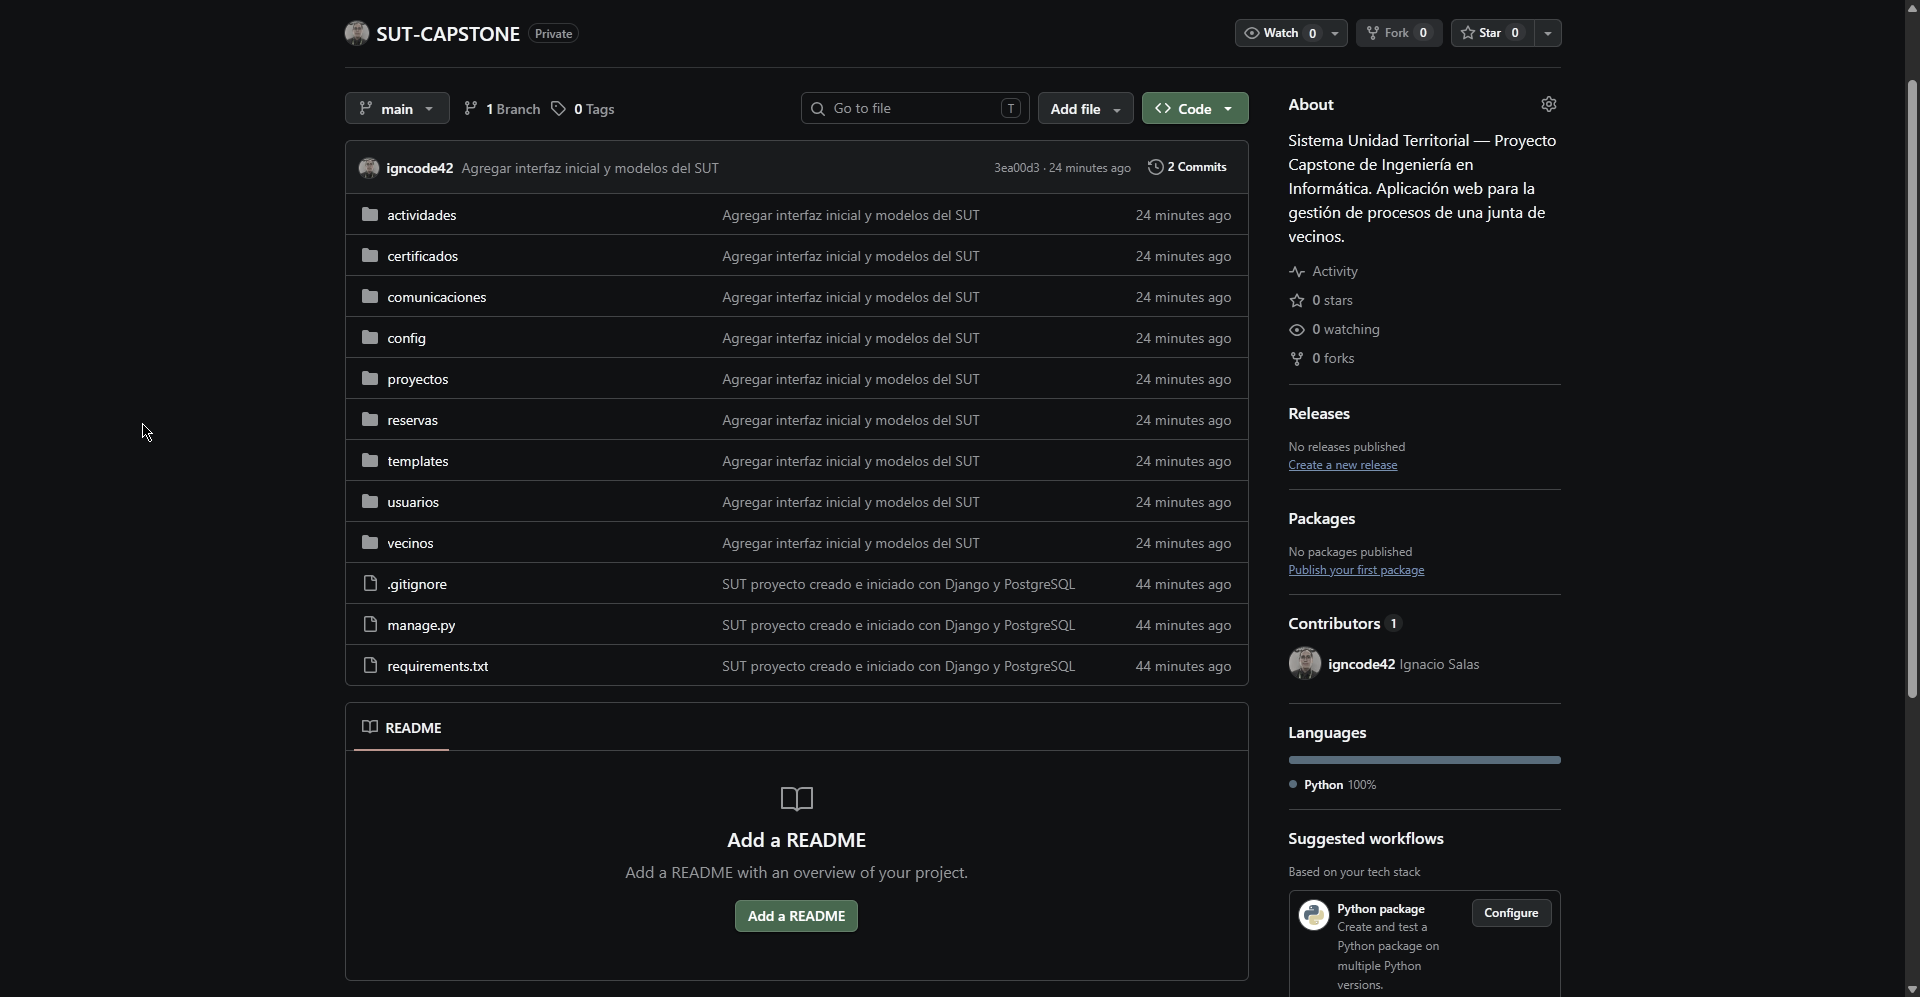
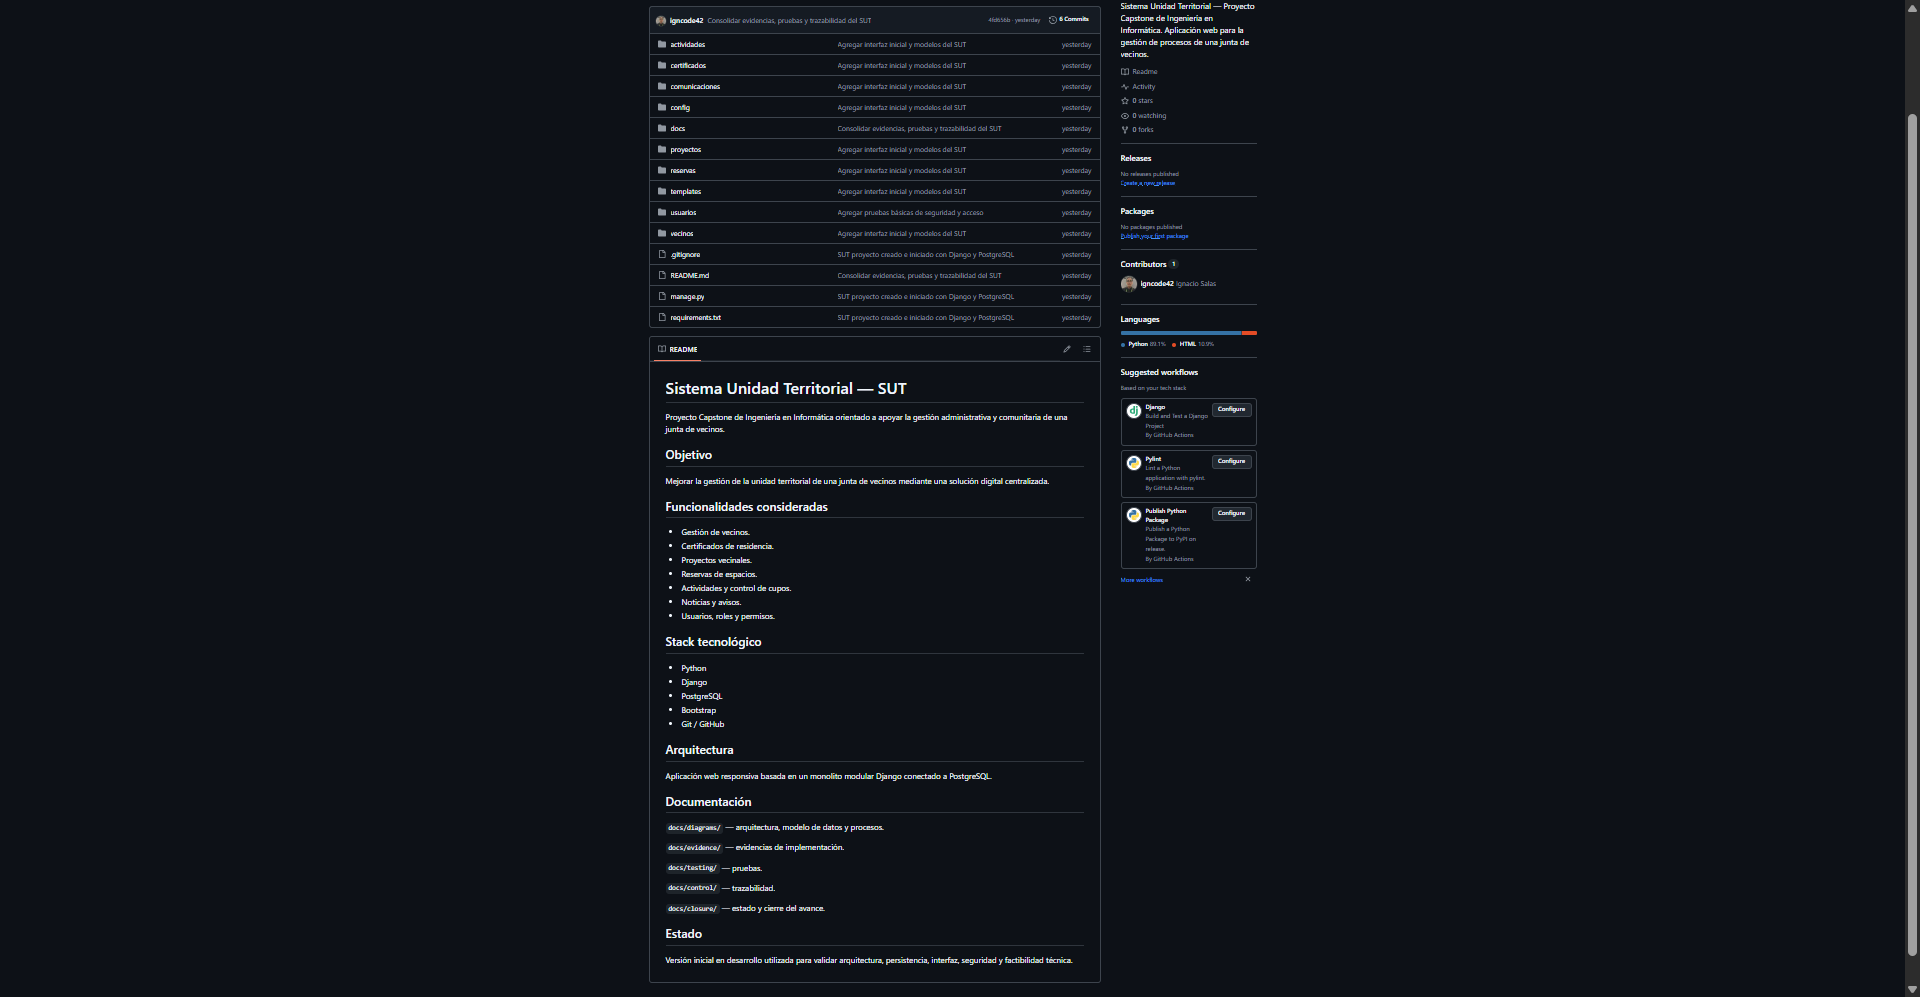
Limpiar y consolidar la entrega SUT v0.1

diff --git a/config/settings.py b/config/settings.py
@@ -31,9 +31,6 @@ DEBUG = os.getenv("DJANGO_DEBUG", "False").lower() == "true"
 ALLOWED_HOSTS = ["127.0.0.1", "localhost"]
 # SECURITY WARNING: don't run with debug turned on in production!
 
-ALLOWED_HOSTS = []
-
-
 # Application definition
 
 INSTALLED_APPS = [
@@ -96,7 +93,6 @@ DATABASES = {
         "PORT": os.getenv("DB_PORT", "5432"),
     }
 }
-
 
 # Password validation
 # https://docs.djangoproject.com/en/6.1/ref/settings/#auth-password-validators

diff --git a/docs/control/trazabilidad.md b/docs/control/trazabilidad.md
@@ -1,13 +1,16 @@
 # Matriz de trazabilidad — SUT
 
-| Necesidad / regla | Requisito | Implementación / diseño | Evidencia |
-|---|---|---|---|
-| Gestionar vecinos | RF-01 | Modelo Vecino | PostgreSQL + Admin |
-| Solicitar certificados | RF-03 / RF-04 | SolicitudCertificado / Certificado | ERD + Admin + BD |
-| Sólo miembros postulan proyectos | RN-01 / RF-05 | ProyectoVecinal + roles | Proceso proyecto + modelo |
-| Directorio aprueba o rechaza | RN-02 / RF-06 | Estado ProyectoVecinal | Diagrama de proceso |
-| Reservas mediante calendario | RN-04 / RF-09 | Espacio / Reserva | ERD + proceso reserva |
-| Inscripción depende de cupos | RN-05 / RF-11 | Actividad / InscripcionActividad | ERD + proceso actividad |
-| Publicar noticias y avisos | RF-13 | Noticia / Aviso | Admin + BD |
-| Proteger acceso administrativo | RS-01 | Django Authentication | Test + panel admin |
-| Proteger secretos | RS-05 | .env + .gitignore | Git |
+La columna **Estado** distingue el diseño documental de la base implementada y de los flujos aún pendientes. Los diagramas de procesos representan el diseño del sistema; no constituyen evidencia de ejecución funcional.
+
+| Necesidad / regla | Requisito | Implementación / diseño | Estado | Evidencia |
+|---|---|---|---|---|
+| Gestionar vecinos | RF-01 | Modelo `Vecino`, migración, tabla y registro administrativo | Implementado parcialmente: base de datos y administración; flujo de usuario pendiente | `vecinos/`; `docs/diagrams/02-modelo-datos-sut.*`; `docs/evidence/02-panel-administracion.png`; `docs/evidence/03-tablas-postgresql.png` |
+| Solicitar certificados | RF-03 / RF-04 | Modelos `SolicitudCertificado` y `Certificado`, migraciones y administración | Implementado parcialmente: estructura de datos; solicitud y emisión funcional pendientes | `certificados/`; `docs/diagrams/02-modelo-datos-sut.*`; `docs/evidence/02-panel-administracion.png` |
+| Sólo miembros postulan proyectos | RN-01 / RF-05 | Regla y proceso definidos; modelo `ProyectoVecinal` disponible | Diseñado: la restricción no está verificada en un flujo funcional | `docs/diagrams/03-proceso-proyecto-vecinal.*`; `proyectos/` |
+| Directorio aprueba o rechaza | RN-02 / RF-06 | Estados del proyecto y proceso de aprobación definidos | Diseñado: permisos y aprobación funcional por rol pendientes | `docs/diagrams/03-proceso-proyecto-vecinal.*`; `proyectos/` |
+| Reservas mediante calendario | RN-04 / RF-09 | Modelos `Espacio` y `Reserva`, migraciones y administración | Implementado parcialmente: persistencia y administración; calendario y validación de disponibilidad pendientes | `reservas/`; `docs/diagrams/04-proceso-reserva-espacio.*`; `docs/evidence/05-listado-espacios-admin.png`; `docs/evidence/06-formulario-espacio-admin.png` |
+| Inscripción depende de cupos | RN-05 / RF-11 | Modelos `Actividad` e `InscripcionActividad`; proceso de cupos diseñado | Implementado parcialmente: estructura de datos; control funcional de cupos pendiente | `actividades/`; `docs/diagrams/05-proceso-actividad-cupos.*` |
+| Publicar noticias y avisos | RF-13 | Modelos `Noticia` y `Aviso`, migraciones y administración | Implementado parcialmente: gestión administrativa; publicación para usuarios finales pendiente | `comunicaciones/`; `docs/evidence/02-panel-administracion.png`; `docs/evidence/03-tablas-postgresql.png` |
+| Proteger acceso administrativo | RS-01 | Autenticación integrada de Django para el panel administrativo | Implementado y verificado | `docs/testing/pruebas.md`; `docs/evidence/02-panel-administracion.png`; `docs/evidence/07-ejecucion-pruebas.png` |
+| Proteger secretos | RS-05 | Configuración mediante variables de entorno y exclusiones del repositorio | Implementado y documentado | `.gitignore`; `config/settings.py`; `docs/evidence/08-proteccion-secretos-gitignore.png`; `docs/evidence/09-configuracion-django-entorno.png`; `docs/evidence/10-estructura-env-sin-secretos.png` |
+| Notificar por correo o WhatsApp | Propuesta APT | Componente considerado en el diseño de arquitectura | Pendiente: no existe integración funcional en la versión v0.1 | `docs/diagrams/01-arquitectura-sut.*` |

diff --git a/docs/closure/cierre-v01.md b/docs/closure/cierre-v01.md
@@ -2,38 +2,45 @@
 
 ## Estado del proyecto
 
-Se ha completado la definición inicial y se dispone de una base técnica funcional del Sistema Unidad Territorial.
+SUT v0.1 constituye una base técnica y documental verificable para continuar el desarrollo incremental. Esta versión no se presenta como un producto terminado ni como una implementación completa de todos los procesos definidos.
 
-## Completado
+## Diseñado / documentado
 
-- Fundamentación y problemática.
-- Solución y objetivos.
-- Alcance y factibilidad.
-- Procesos principales.
-- Requisitos funcionales y no funcionales.
-- Historias de usuario.
-- Arquitectura preliminar.
-- Modelo de datos.
-- Stack tecnológico.
-- Aplicación Django inicial.
-- Base de datos PostgreSQL.
-- Interfaz web inicial.
-- Panel administrativo.
-- Controles básicos de seguridad.
-- Pruebas iniciales.
-- Repositorio Git/GitHub.
-- Evidencias técnicas.
+- Fundamentación, problemática, solución, objetivos, alcance y factibilidad.
+- Procesos principales de proyectos vecinales, reservas y actividades con cupos.
+- Requisitos funcionales y no funcionales, reglas de negocio e historias de usuario.
+- Product Backlog y criterios de priorización.
+- Arquitectura del sistema, incluido el componente de correo como diseño.
+- Modelo conceptual de datos.
+- Stack tecnológico y organización modular de la solución.
+- Matriz de trazabilidad, documentación de pruebas y cierre del avance.
 
-## Pendiente / siguientes iteraciones
+Los diagramas de procesos expresan el comportamiento esperado del sistema y no acreditan flujos completos implementados.
 
-- Implementar flujos funcionales completos.
-- Completar permisos específicos por rol.
-- Ampliar pruebas automatizadas.
-- Completar Carta Gantt con fechas oficiales.
-- Refinar interfaz de usuario.
-- Validar reglas de negocio pendientes.
-- Completar documentación y presentación final.
+## Implementado / verificado
 
-## Conclusión
+- Proyecto Django inicial con las siete aplicaciones definidas: `usuarios`, `vecinos`, `certificados`, `proyectos`, `reservas`, `actividades` y `comunicaciones`.
+- Modelos Django, migraciones y tablas asociadas en PostgreSQL.
+- Usuario PostgreSQL dedicado y configuración de conexión mediante variables de entorno.
+- Interfaz web inicial con Django Templates y Bootstrap.
+- Registro de modelos en Django Admin y autenticación administrativa.
+- Exclusión de `.env`, entornos virtuales, cachés y archivos compilados mediante `.gitignore`.
+- Dos pruebas automatizadas iniciales ejecutadas y documentadas.
+- Evidencias técnicas organizadas y numeradas para la versión v0.1.
 
-El avance permite demostrar la factibilidad técnica de la solución y establece una base funcional y documentada para continuar el desarrollo incremental del proyecto.
+## Pendiente
+
+- Completar los flujos funcionales para usuarios finales.
+- Aplicar permisos específicos y validaciones finas según rol.
+- Implementar notificaciones funcionales por correo y WhatsApp.
+- Implementar calendario, disponibilidad y validaciones de reservas.
+- Implementar el control funcional de cupos e inscripciones.
+- Completar la solicitud y emisión funcional de certificados.
+- Completar la publicación de comunicaciones para usuarios finales.
+- Incorporar reglas de negocio adicionales y ampliar la cobertura de pruebas.
+- Refinar la interfaz de usuario.
+- Completar la Carta Gantt con fechas oficiales y la presentación final.
+
+## Conclusión del avance
+
+La versión v0.1 demuestra la factibilidad técnica de la arquitectura, la persistencia en PostgreSQL, la administración inicial, la configuración segura y dos comportamientos básicos verificados. El desarrollo pendiente corresponde principalmente a flujos de usuario, reglas y permisos; por ello, la entrega debe defenderse como una base coherente y documentada para las siguientes iteraciones.

diff --git a/README.md b/README.md
@@ -4,42 +4,62 @@ Proyecto Capstone de Ingeniería en Informática orientado a apoyar la gestión 
 
 ## Objetivo
 
-Mejorar la gestión de la unidad territorial de una junta de vecinos mediante una solución digital centralizada.
+Mejorar la gestión de la unidad territorial mediante una solución digital centralizada, trazable y acorde con los procesos definidos para la organización vecinal.
 
-## Funcionalidades consideradas
+## Estado de la versión v0.1
 
-- Gestión de vecinos.
-- Certificados de residencia.
-- Proyectos vecinales.
-- Reservas de espacios.
-- Actividades y control de cupos.
+### Diseñado
+
+- Gestión de usuarios, roles y vecinos.
+- Solicitud y emisión de certificados de residencia.
+- Proyectos vecinales y su proceso de aprobación.
+- Reservas de espacios comunitarios.
+- Actividades, inscripciones y control de cupos.
 - Noticias y avisos.
-- Usuarios, roles y permisos.
+- Arquitectura del sistema, modelo conceptual de datos y procesos de negocio.
+- Requisitos, reglas de negocio, historias de usuario, Product Backlog y trazabilidad.
+- Componente de correo como parte de la arquitectura propuesta.
+
+### Implementado
+
+- Proyecto Django organizado en siete aplicaciones: `usuarios`, `vecinos`, `certificados`, `proyectos`, `reservas`, `actividades` y `comunicaciones`.
+- Modelos Django, migraciones y tablas asociadas en PostgreSQL.
+- Interfaz web inicial con Django Templates y Bootstrap.
+- Django Admin y autenticación para el acceso administrativo.
+- Configuración mediante variables de entorno y exclusión de secretos con `.gitignore`.
+- Dos pruebas automatizadas iniciales documentadas en `docs/testing/pruebas.md`.
+- Documentación técnica, diagramas y evidencias de la base v0.1.
+
+### Pendiente
+
+- Flujos funcionales completos para usuarios finales.
+- Permisos específicos y validaciones finas según rol.
+- Envío funcional de notificaciones por correo y WhatsApp.
+- Calendario y validación funcional de disponibilidad para reservas.
+- Control funcional de cupos e inscripciones.
+- Reglas de negocio adicionales, mayor cobertura de pruebas y refinamiento de la interfaz.
+- Carta Gantt con fechas oficiales y presentación final.
 
 ## Stack tecnológico
 
 - Python
 - Django
 - PostgreSQL
+- Django ORM
+- Django Templates
 - Bootstrap
 - Git / GitHub
 
 ## Arquitectura
 
-Aplicación web responsiva basada en un monolito modular Django conectado a PostgreSQL.
+Aplicación web responsiva basada en un monolito modular Django conectado a PostgreSQL. Los componentes de notificación representados en la arquitectura corresponden al diseño y no a una integración funcional de la versión v0.1.
+
+El modelo de datos documentado es conceptual. Los diagramas de procesos describen el diseño previsto del sistema y no acreditan por sí solos flujos de usuario implementados.
 
 ## Documentación
 
-`docs/diagrams/` — arquitectura, modelo de datos y procesos.
-
-`docs/evidence/` — evidencias de implementación.
-
-`docs/testing/` — pruebas.
-
-`docs/control/` — trazabilidad.
-
-`docs/closure/` — estado y cierre del avance.
-
-## Estado
-
-Versión inicial en desarrollo utilizada para validar arquitectura, persistencia, interfaz, seguridad y factibilidad técnica.
+- `docs/diagrams/`: arquitectura, modelo conceptual de datos y procesos diseñados.
+- `docs/evidence/`: evidencias de implementación y verificación de la versión v0.1.
+- `docs/testing/`: pruebas ejecutadas y pruebas futuras.
+- `docs/control/`: matriz de trazabilidad y estado de requisitos.
+- `docs/closure/`: cierre y pendientes del avance v0.1.
